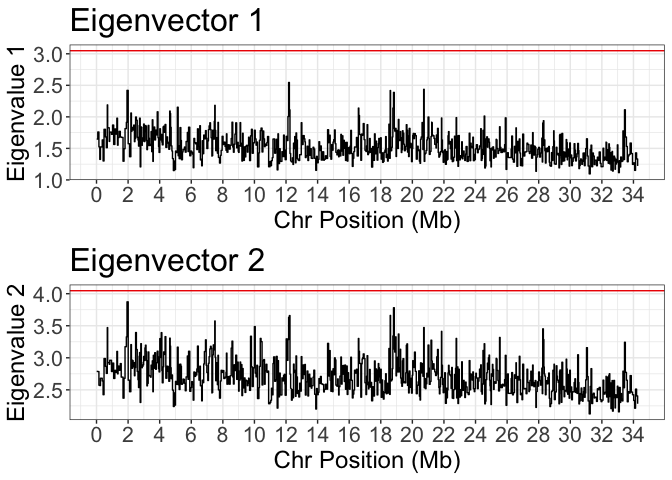
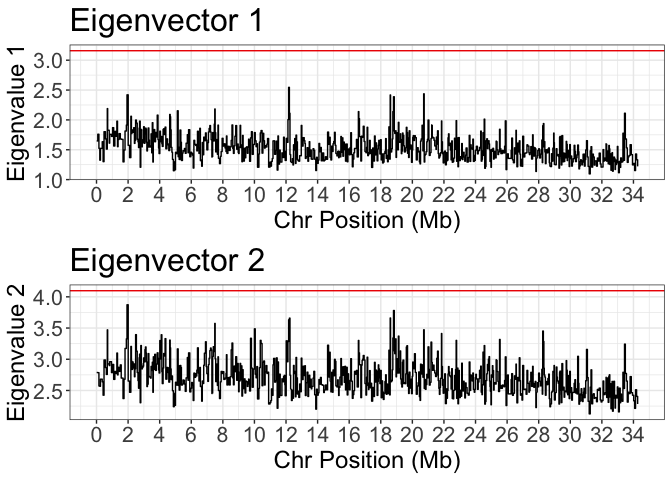
Updated readme

diff --git a/README.md b/README.md
@@ -322,10 +322,10 @@ null_cutoffs
 ```
 
     ##                    95%      99%    99.9%
-    ## Eigenvector 1 2.791381 3.048733 3.449560
-    ## Eigenvector 2 3.851799 4.046510 4.188873
-    ## Eigenvector 3 4.459365 4.620990 4.695614
-    ## Eigenvector 4 4.821557 4.878966 4.896459
+    ## Eigenvector 1 2.757524 3.158818 3.433892
+    ## Eigenvector 2 3.876152 4.097952 4.255967
+    ## Eigenvector 3 4.471871 4.576326 4.673508
+    ## Eigenvector 4 4.815768 4.870083 4.907835
     ## Eigenvector 5 5.000000 5.000000 5.000000
 
 Here, the values are summed through eigenvalues, such that the value for
@@ -351,19 +351,19 @@ head(pvals)
 ```
 
     ##                    Eigenvalue_1 Eigenvalue_2 Eigenvalue_3 Eigenvalue_4
-    ## chr1:12058-81543      0.7172827    0.5184815   0.14385614  0.006993007
-    ## chr1:81669-152842     0.6453546    0.6873127   0.10289710  0.003996004
-    ## chr1:152857-206794    0.7592408    0.6563437   0.06793207  0.000999001
-    ## chr1:208427-250790    0.7802198    0.3406593   0.08791209  0.001998002
-    ## chr1:251000-362599    0.7592408    0.4795205   0.02897103  0.050949051
-    ## chr1:362644-417859    0.7212787    0.7022977   0.11088911  0.012987013
+    ## chr1:12058-81543      0.6853147    0.5004995   0.14785215  0.004995005
+    ## chr1:81669-152842     0.6233766    0.6743257   0.10189810  0.002997003
+    ## chr1:152857-206794    0.7432567    0.6503497   0.06093906  0.000999001
+    ## chr1:208427-250790    0.7692308    0.3346653   0.08791209  0.000999001
+    ## chr1:251000-362599    0.7432567    0.4755245   0.02497502  0.049950050
+    ## chr1:362644-417859    0.6913087    0.6923077   0.10989011  0.020979021
     ##                    Eigenvalue_5
-    ## chr1:12058-81543     0.16883117
-    ## chr1:81669-152842    0.28371628
-    ## chr1:152857-206794   0.06293706
-    ## chr1:208427-250790   0.03596404
-    ## chr1:251000-362599   0.03696304
-    ## chr1:362644-417859   0.01298701
+    ## chr1:12058-81543     0.19380619
+    ## chr1:81669-152842    0.27272727
+    ## chr1:152857-206794   0.09390609
+    ## chr1:208427-250790   0.05294705
+    ## chr1:251000-362599   0.05694306
+    ## chr1:362644-417859   0.01898102
 
 Note: Because these p-values are calculated by comparing to the null
 distribution, they are bounded by the number of permutations. For
